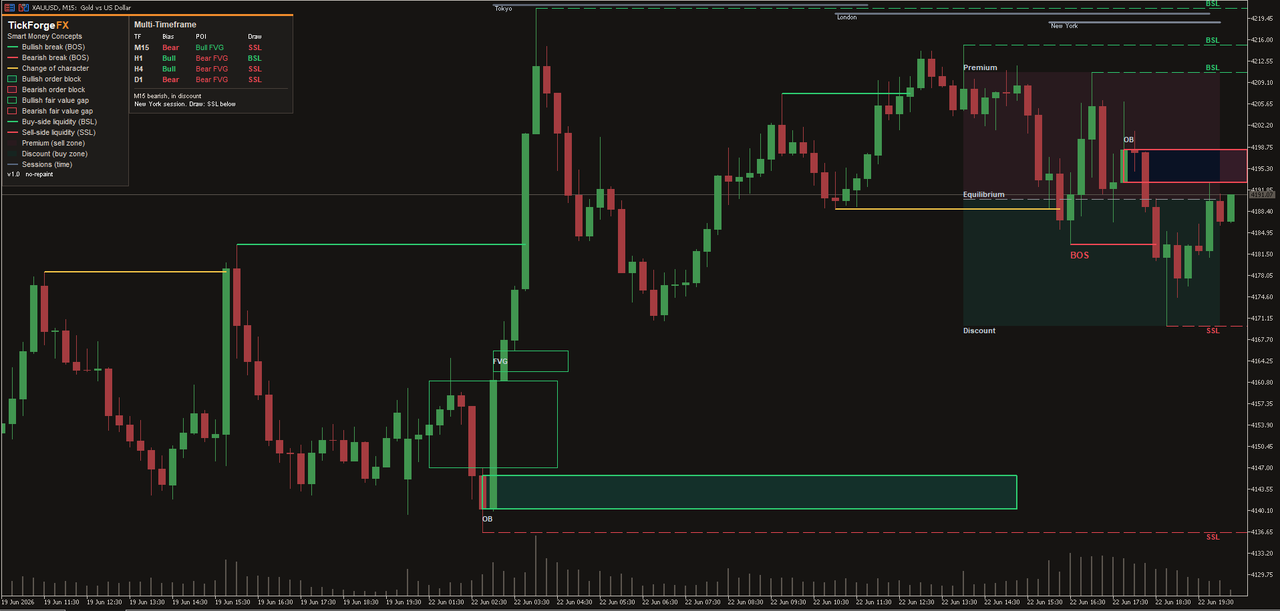
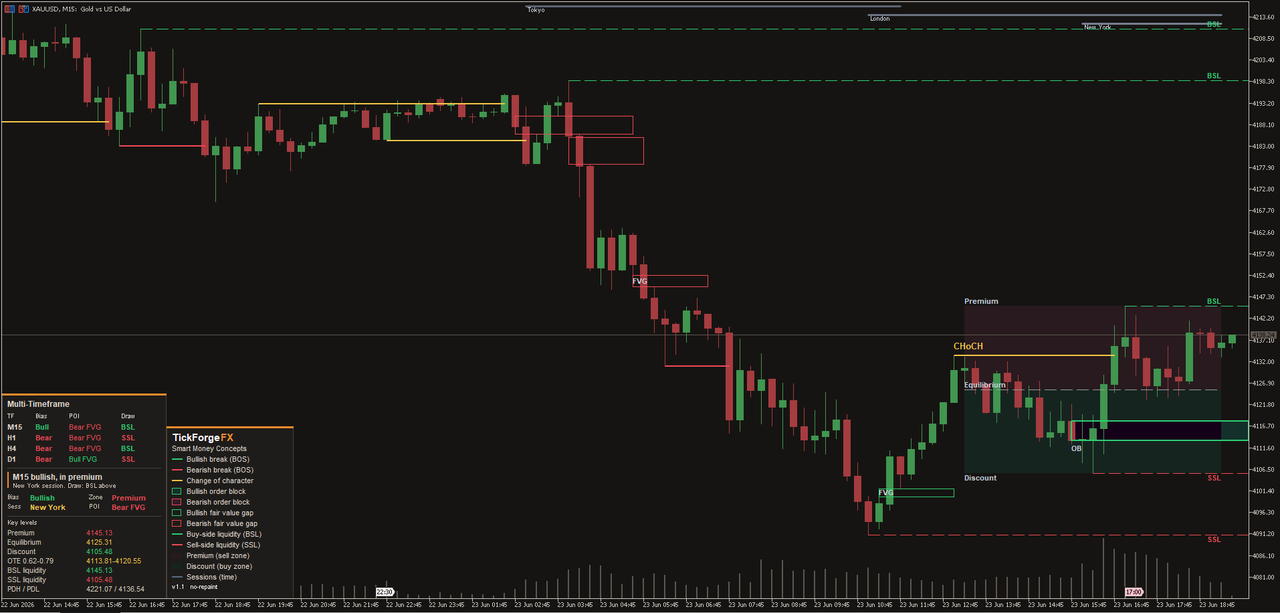
Portfolio: refresh SMC gallery for v1.1, add changelog, keep EA case study

Changed region(s): [[0.0, 0.0, 1.0, 1.0], [0.75, 0.4664, 0.7812, 0.4975]]

diff --git a/README.md b/README.md
@@ -32,14 +32,15 @@ build your idea exactly to spec, test it rigorously, and give you the truth.
 A clean, no-repaint Smart Money Concepts indicator for MetaTrader 5. Market
 structure (BOS / CHoCH), order blocks, fair value gaps, liquidity (BSL / SSL,
 equal highs and lows, previous day levels), premium and discount with an OTE
-band, killzone sessions, and a multi-timeframe dashboard with a plain-English
-read of the current picture. Detection runs on closed bars only and never
-repaints. Now live on the MQL5 Market:
+band, killzone sessions, and a multi-timeframe dashboard. The panel reads the
+current bias, zone, session, nearest liquidity, and the named key price levels
+at a glance. Detection runs on closed bars only and never repaints. Now live on
+the MQL5 Market:
 [SMC and ICT Structure Liquidity Dashboard](https://www.mql5.com/en/market/product/182687).
 
 ![Market structure, order blocks, FVGs, liquidity and premium/discount on one chart](screenshots/SMC/thumbnails/smc-overview-dark-thumb.png)
 
-![Multi-timeframe dashboard with the plain-English read of the current picture](screenshots/SMC/thumbnails/smc-dashboard-dark-thumb.png)
+![The at-a-glance panel: bias, zone, session, and named key levels, shown on a light chart](screenshots/SMC/thumbnails/smc-dashboard-light-thumb.png)
 
 ## Case study: Trend Breakout EA
 

diff --git a/products/smart-money-concepts/PRODUCT_PAGE.md b/products/smart-money-concepts/PRODUCT_PAGE.md
@@ -62,6 +62,11 @@ is locked to a symbol, timeframe, or account.
 
 ## Changelog
 
+- v1.1: dashboard upgrade. The Read is promoted to a prominent context line, a confluence
+  panel shows bias, zone, session, and the nearest point of interest as plain factual
+  state, and a new Key Levels section lists named prices: premium, equilibrium, discount,
+  the OTE band, nearest buy-side and sell-side liquidity, and previous day high and low.
+  Panel readability pass on the text. No repaint, no new chart objects, all closed-bar.
 - v1.0: first release. Market structure, order blocks, fair value gaps, liquidity,
   premium and discount with OTE, killzone sessions, the multi-timeframe dashboard, and
   closed-bar alerts.
